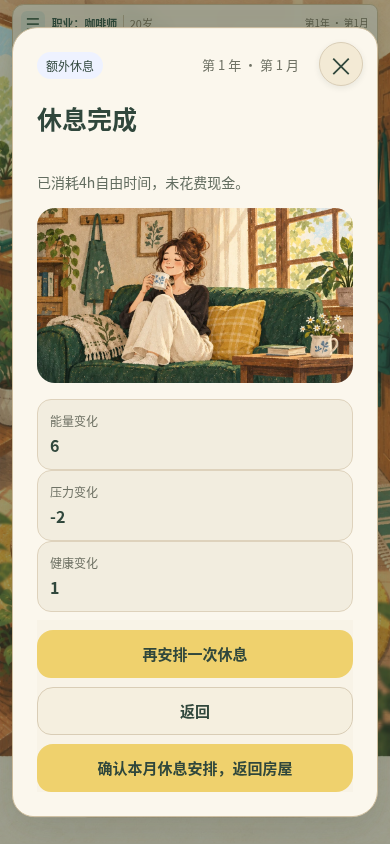
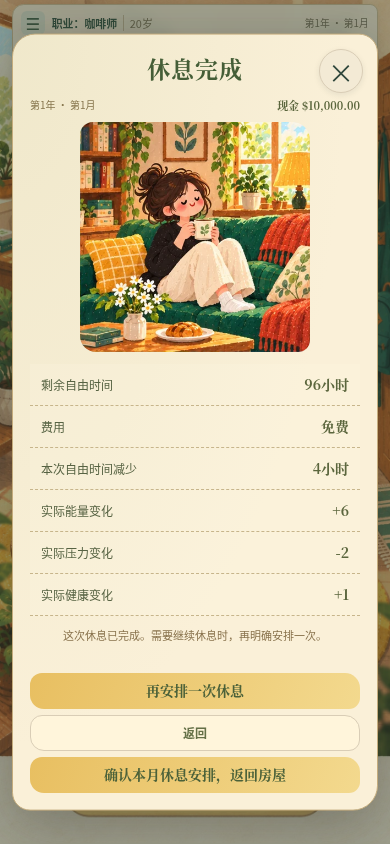
Unify household bill, housing and rest cards in approved illustrated style

diff --git a/sw.js b/sw.js
@@ -1,5 +1,5 @@
-const CACHE='wealth-life-v28.3-housing-check1';
-const ASSETS=["./social-records.js?v=28.3-social-per-person1","./social-time.js?v=28.3-social-price1","./social-pages-art.js?v=28.3-social-price1","./social-pages-art.css?v=28.3-social1","./assets/career/social-scenes.webp","./assets/career/life-funding.webp","./life-pages-art.js?v=28.3-life-pages1","./life-pages-art.css?v=28.3-life-pages1","./assets/career/life-activities.webp","./insurance-rules.js?v=28.3-insurance1","./insurance-hub.js?v=28.3-insurance1","./insurance-hub.css?v=28.3-insurance1","./life-hub-art.js?v=28.3-life-hub1","./life-hub-art.css?v=28.3-life-hub1","./assets/career/life-arrangements.webp","./recovery-activity-guards.js?v=28.3-recovery-guard1","./pet-social-contacts.js?v=28.3-pet-simple1","./assets/career/pet-gecko-cleaning.webp","./assets/career/pet-spider-cleaning.webp","./assets/career/pet-tortoise-cleaning.webp","./assets/career/pet-chameleon-cleaning.webp","./assets/career/pet-cat-professional.webp","./assets/career/pet-cat-cleaning-scenes.webp","./pet-art-map.js?v=28.3-pet-simple1","./pet-art-map.css?v=28.3-pet-map1","./pet-page-art.js?v=28.3-pet-map1","./assets/career/pet-policy.webp","./assets/career/pet-crocodile-cleaning.webp","./assets/career/pet-crocodile-adoption.webp","./assets/career/pet-cat-adoption.webp","./pet-funds-shortage.js?v=28.3-pet-funds1","./pet-funds-shortage.css?v=28.3-pet-funds1","./pet-adoption-success.js?v=28.3-pet-map1","./pet-adoption-success.css?v=28.3-pet-success1","./assets/career/pet-adoption-success.webp","./pet-owned-hub.js?v=28.3-pet-map1","./pet-owned-hub.css?v=28.3-pet-owned1","./assets/career/pet-owned-sheet.webp","./assets/career/pet-cleaning-scenes.webp","./pet-daily-care.js?v=28.3-pet-simple1","./pet-daily-care.css?v=28.3-pet-clean-art1","./pet-adoption-art.js?v=28.3-pet-map1","./pet-adoption-art.css?v=28.3-pet-form1","./assets/career/pet-corgi-adoption.webp","./pet-selection-art.js?v=28.3-pet-entry1","./pet-selection-art.css?v=28.3-pet-center1","./assets/career/pet-selection.webp","./pet-hub-art.js?v=28.3-pet-care-label1","./pet-hub-art.css?v=28.3-pet-hub1","./assets/career/pet-hub.webp","./assets/career/home-mobile.webp","./room-arrangements.js?v=28.3-pet-map1","./map-card-data.js?v=28.3-pet-social-limit1", "./map-card-rules.js?v=28.3-mapcards1", "./map-card-system.js?v=28.3-pet-simple1", "./map-card.css?v=28.3-mapcards1", "./assets/career/map-pet-unwell.webp", "./assets/career/map-pet-injury.webp", "./assets/career/map-pet-companion.webp", "./assets/career/map-pet-social.webp", "./assets/career/map-pet-mishap.webp", "./assets/career/map-investment-studio.webp", "./assets/career/map-investment-bun-shop.webp", "./assets/career/map-investment-laundry.webp"] .concat(["./cafe-rules.js?v=28.3-manager1","./cafe-system.js?v=28.3-manager1","./career-entry.js?v=28.3-mobile-room1","./career-entry.css?v=28.3-entry2","./assets/career/shift-promotion-pending.webp","./assets/career/shift-promotion-preview.webp","./assets/career/coffee-course.webp","./pet-adoption.js?v=28.3-pet-success1","./candidate-art.js?v=28.3-candidate1","./assets/career/barista-portrait.webp","./assets/career/pet-time-shortage.webp","./assets/career/pet-funds-shortage.webp","./assets/career/pet-crocodile-care.webp","./assets/career/bank-application.webp","./assets/career/bank-payment.webp","./housing-art.js?v=28.3-housing-check1","./assets/career/housing-select.webp","./assets/career/housing-reserve.webp","./assets/career/living-cost.webp","./return-art.js?v=28.3-return1","./assets/career/insurance.webp","./assets/career/return-energy.webp","./assets/career/return-stress.webp","./assets/career/payday.webp","./health-art.js?v=28.3-health1","./assets/career/rest-arrange.webp","./assets/career/rest-complete.webp","./assets/career/hospital-recovery.webp","./assets/career/month-recovery.webp","./education-art.js?v=28.3-education1","./assets/career/degrees.webp","./assets/career/associate-preview.webp","./learning-art.js?v=28.3-learning1","./assets/career/learning.webp","./assets/career/management-course.webp","./assets/career/service-course.webp","./hobby-art.js?v=28.3-room2","./assets/career/hobbies.webp","./home-scene.js?v=28.3-room-unified1","./home-scene.css?v=28.3-room-unified1","./assets/career/home.webp","./release-info.js?v=28.3-internal1","./financial-crisis.js?v=28.3-internal1","./four-state.js?v=28.3-internal1","./rest-state.js?v=28.3-rest-check1","./coffee-salary.js?v=28.3-internal1","./housing-lease.js?v=28.3-housing-check1","./pet-care.js?v=28.3-pet-map1","./necessary-bills.js?v=28.3-internal1","./recovery-ui.js?v=28.3-internal1","./medical-insurance.js?v=28.3-internal1","./recovery-rules.js?v=28.3-internal1","./time-ledger.js?v=28.3-internal1","./time-flow.js?v=28.3-home-end1","./assets/career/town.webp","./coffee-career.js?v=28.3-mapcards1", "./assets/career/barista-staff.webp", "./assets/career/barista-busy.webp", "./assets/career/barista-cut.webp", "./assets/career/barista-tip.webp", "./assets/career/barista-departure.webp", "./assets/career/shift-training.webp", "./assets/career/shift-schedule.webp", "./assets/career/shift-schedule-success.webp", "./assets/career/shift-schedule-failure.webp", "./assets/career/shift-complaint.webp", "./assets/career/shift-complaint-success.webp", "./assets/career/shift-complaint-failure.webp", "./assets/career/shift-acting.webp", "./assets/career/shift-acting-success.webp", "./assets/career/shift-acting-failure.webp", "./assets/career/shift-praise.webp", "./assets/career/intro.webp"] .concat(["./shift-lead.js?v=28.3-internal1","./shift-lead.css?v=28.3-internal1","./paper.css?v=28.3-internal1",'./coffee.js?v=28.3-internal1','./town.js?v=28.3-internal1','./','./index.html','./core.js','./flow.js?v=28.3-internal1','./journey.js?v=28.3-internal1','./batch.js?v=28.3-mapcards1','./revision.js?v=28.3-social-price1','./annual.js?v=28.3-internal1','./core.js?v=28.3-mapcards1','./presentation.js?v=28.3-candidate1','./presentation.css?v=28.3-internal1','./city.svg','./manifest.webmanifest','./icons/icon-192.png','./icons/icon-512.png']));
+const CACHE='wealth-life-v28.3-household-paper1';
+const ASSETS=["./household-paper.js?v=28.3-household-paper1","./household-paper.css?v=28.3-household-paper1","./assets/career/household-scenes.webp","./social-records.js?v=28.3-social-per-person1","./social-time.js?v=28.3-social-price1","./social-pages-art.js?v=28.3-social-price1","./social-pages-art.css?v=28.3-social1","./assets/career/social-scenes.webp","./assets/career/life-funding.webp","./life-pages-art.js?v=28.3-life-pages1","./life-pages-art.css?v=28.3-life-pages1","./assets/career/life-activities.webp","./insurance-rules.js?v=28.3-insurance1","./insurance-hub.js?v=28.3-insurance1","./insurance-hub.css?v=28.3-insurance1","./life-hub-art.js?v=28.3-life-hub1","./life-hub-art.css?v=28.3-life-hub1","./assets/career/life-arrangements.webp","./recovery-activity-guards.js?v=28.3-recovery-guard1","./pet-social-contacts.js?v=28.3-pet-simple1","./assets/career/pet-gecko-cleaning.webp","./assets/career/pet-spider-cleaning.webp","./assets/career/pet-tortoise-cleaning.webp","./assets/career/pet-chameleon-cleaning.webp","./assets/career/pet-cat-professional.webp","./assets/career/pet-cat-cleaning-scenes.webp","./pet-art-map.js?v=28.3-pet-simple1","./pet-art-map.css?v=28.3-pet-map1","./pet-page-art.js?v=28.3-pet-map1","./assets/career/pet-policy.webp","./assets/career/pet-crocodile-cleaning.webp","./assets/career/pet-crocodile-adoption.webp","./assets/career/pet-cat-adoption.webp","./pet-funds-shortage.js?v=28.3-pet-funds1","./pet-funds-shortage.css?v=28.3-pet-funds1","./pet-adoption-success.js?v=28.3-pet-map1","./pet-adoption-success.css?v=28.3-pet-success1","./assets/career/pet-adoption-success.webp","./pet-owned-hub.js?v=28.3-pet-map1","./pet-owned-hub.css?v=28.3-pet-owned1","./assets/career/pet-owned-sheet.webp","./assets/career/pet-cleaning-scenes.webp","./pet-daily-care.js?v=28.3-pet-simple1","./pet-daily-care.css?v=28.3-pet-clean-art1","./pet-adoption-art.js?v=28.3-pet-map1","./pet-adoption-art.css?v=28.3-pet-form1","./assets/career/pet-corgi-adoption.webp","./pet-selection-art.js?v=28.3-pet-entry1","./pet-selection-art.css?v=28.3-pet-center1","./assets/career/pet-selection.webp","./pet-hub-art.js?v=28.3-pet-care-label1","./pet-hub-art.css?v=28.3-pet-hub1","./assets/career/pet-hub.webp","./assets/career/home-mobile.webp","./room-arrangements.js?v=28.3-pet-map1","./map-card-data.js?v=28.3-pet-social-limit1", "./map-card-rules.js?v=28.3-mapcards1", "./map-card-system.js?v=28.3-pet-simple1", "./map-card.css?v=28.3-mapcards1", "./assets/career/map-pet-unwell.webp", "./assets/career/map-pet-injury.webp", "./assets/career/map-pet-companion.webp", "./assets/career/map-pet-social.webp", "./assets/career/map-pet-mishap.webp", "./assets/career/map-investment-studio.webp", "./assets/career/map-investment-bun-shop.webp", "./assets/career/map-investment-laundry.webp"] .concat(["./cafe-rules.js?v=28.3-manager1","./cafe-system.js?v=28.3-manager1","./career-entry.js?v=28.3-mobile-room1","./career-entry.css?v=28.3-entry2","./assets/career/shift-promotion-pending.webp","./assets/career/shift-promotion-preview.webp","./assets/career/coffee-course.webp","./pet-adoption.js?v=28.3-pet-success1","./candidate-art.js?v=28.3-candidate1","./assets/career/barista-portrait.webp","./assets/career/pet-time-shortage.webp","./assets/career/pet-funds-shortage.webp","./assets/career/pet-crocodile-care.webp","./assets/career/bank-application.webp","./assets/career/bank-payment.webp","./housing-art.js?v=28.3-housing-check1","./assets/career/housing-select.webp","./assets/career/housing-reserve.webp","./assets/career/living-cost.webp","./return-art.js?v=28.3-return1","./assets/career/insurance.webp","./assets/career/return-energy.webp","./assets/career/return-stress.webp","./assets/career/payday.webp","./health-art.js?v=28.3-health1","./assets/career/rest-arrange.webp","./assets/career/rest-complete.webp","./assets/career/hospital-recovery.webp","./assets/career/month-recovery.webp","./education-art.js?v=28.3-education1","./assets/career/degrees.webp","./assets/career/associate-preview.webp","./learning-art.js?v=28.3-learning1","./assets/career/learning.webp","./assets/career/management-course.webp","./assets/career/service-course.webp","./hobby-art.js?v=28.3-room2","./assets/career/hobbies.webp","./home-scene.js?v=28.3-room-unified1","./home-scene.css?v=28.3-room-unified1","./assets/career/home.webp","./release-info.js?v=28.3-internal1","./financial-crisis.js?v=28.3-internal1","./four-state.js?v=28.3-internal1","./rest-state.js?v=28.3-rest-check1","./coffee-salary.js?v=28.3-internal1","./housing-lease.js?v=28.3-housing-check1","./pet-care.js?v=28.3-pet-map1","./necessary-bills.js?v=28.3-internal1","./recovery-ui.js?v=28.3-internal1","./medical-insurance.js?v=28.3-internal1","./recovery-rules.js?v=28.3-internal1","./time-ledger.js?v=28.3-internal1","./time-flow.js?v=28.3-home-end1","./assets/career/town.webp","./coffee-career.js?v=28.3-mapcards1", "./assets/career/barista-staff.webp", "./assets/career/barista-busy.webp", "./assets/career/barista-cut.webp", "./assets/career/barista-tip.webp", "./assets/career/barista-departure.webp", "./assets/career/shift-training.webp", "./assets/career/shift-schedule.webp", "./assets/career/shift-schedule-success.webp", "./assets/career/shift-schedule-failure.webp", "./assets/career/shift-complaint.webp", "./assets/career/shift-complaint-success.webp", "./assets/career/shift-complaint-failure.webp", "./assets/career/shift-acting.webp", "./assets/career/shift-acting-success.webp", "./assets/career/shift-acting-failure.webp", "./assets/career/shift-praise.webp", "./assets/career/intro.webp"] .concat(["./shift-lead.js?v=28.3-internal1","./shift-lead.css?v=28.3-internal1","./paper.css?v=28.3-internal1",'./coffee.js?v=28.3-internal1','./town.js?v=28.3-internal1','./','./index.html','./core.js','./flow.js?v=28.3-internal1','./journey.js?v=28.3-internal1','./batch.js?v=28.3-mapcards1','./revision.js?v=28.3-social-price1','./annual.js?v=28.3-internal1','./core.js?v=28.3-mapcards1','./presentation.js?v=28.3-candidate1','./presentation.css?v=28.3-internal1','./city.svg','./manifest.webmanifest','./icons/icon-192.png','./icons/icon-512.png']));
 self.addEventListener('install',e=>{self.skipWaiting();e.waitUntil(caches.open(CACHE).then(c=>c.addAll(ASSETS)))});
 self.addEventListener('activate',e=>e.waitUntil(Promise.all([caches.keys().then(keys=>Promise.all(keys.filter(k=>k.startsWith('wealth-life-')&&k!==CACHE).map(k=>caches.delete(k)))),self.clients.claim()])));
 // Register the cache lifetime synchronously while the fetch event is active.

diff --git a/household-paper.js b/household-paper.js
@@ -1,0 +1,63 @@
+// Hand-painted household cards over the existing previews and transaction buttons.
+(function(){
+ const titles={family:'与家人同住的温暖卧室',shared:'合租公寓的公共客厅',studio:'卧室与厨房同处一个空间的Studio',rent1:'有独立卧室的一居室'};
+ const cells={family:0,shared:1,studio:2,rent1:3};
+ function art(i){const d=document.createElement('div');d.className='household-scene';d.style.setProperty('--house-x',(i%3*50)+'%');d.style.setProperty('--house-y',(Math.floor(i/3)*100)+'%');d.setAttribute('role','img');d.setAttribute('aria-label',Object.keys(cells).find(k=>cells[k]===i)?titles[Object.keys(cells).find(k=>cells[k]===i)]:i===4?'食材、面包和日常生活用品':'钥匙、押金与住房合同');return d;}
+ function note(s){const p=document.createElement('p');p.className='life-paper-note';p.textContent=s;return p;}
+ function row(k,v){const d=document.createElement('div');d.className='life-paper-row';const a=document.createElement('span'),b=document.createElement('strong');a.textContent=k;b.textContent=v;d.append(a,b);return d;}
+ function board(title){
+  if($('eventTitle').textContent!==title)return null;
+  const b=document.createElement('div');b.className='life-paper household-board';b.append(row('第'+(Math.floor(state.month/12)+1)+'年 · 第'+(state.month%12+1)+'月','现金 '+priceText(state.cash)));
+  $('eventTitle').closest('.event').classList.add('life-pages-painted','household-painted');$('eventData').replaceChildren(b);$('eventData').style.display='block';return b;
+ }
+ function actions(){for(const b of $('actions').querySelectorAll('button'))b.dataset.lifePaperAction=b.textContent.startsWith('确认本月')?'review':b.classList.contains('primary')||b.matches('[data-v26="living"]')?'confirm':'back';}
+ const housingBefore=openHousing;
+ openHousing=function(...args){
+  const result=housingBefore(...args);if($('eventTitle').textContent!=='选择住房')return result;
+  const options=[...$('eventData').querySelectorAll('[data-housing-preview]')],handover=$('eventData').querySelector('[data-lease-handover]'),cancel=$('eventData').querySelector('[data-lease-cancel]'),b=board('选择住房');if(!b)return result;
+  b.append(note('选一处适合自己的住处。先看详情，再确认付款。'));
+  if(state.pendingHousingMove){b.append(note('已预约：'+state.pendingHousingMove.name+'。'+(housingHandoverDue()?'本月办理交接后入住。':'下月入住，预约尚未扣款。')));if(cancel){cancel.classList.add('household-inline');b.append(cancel);}}
+  if(handover){b.append(art(5));handover.classList.add('household-inline');b.append(handover);}
+  const grid=document.createElement('div');grid.className='household-options';
+  for(const button of options){
+   const key=button.dataset.key,h=housingChoices().find(h=>h[3]===key);if(!h)continue;const q=housingQuote(h),i=cells[key];
+   button.className='household-option';button.setAttribute('aria-label',h[0]);button.replaceChildren();if(i!=null)button.append(art(i));
+   const name=document.createElement('strong'),price=document.createElement('b'),detail=document.createElement('small'),link=document.createElement('span');name.textContent=h[0];price.textContent=priceText(q.monthly)+'/月';
+   detail.textContent=q.scheduled?'预约下月入住，本次不扣款':q.current?'本月尚需房租 '+priceText(q.rent):'房租 '+priceText(q.rent)+' · 押金 '+priceText(q.deposit);
+   link.textContent=q.scheduled?'查看预约详情 ›':'查看付款详情 '+priceText(q.total)+' ›';button.append(name,price,detail,link);grid.append(button);
+  }b.append(grid,note('租房押金为一个月房租，退租交接返还。住房费用已包含水电与家庭网络。'));actions();return result;
+ };
+ $('housingBtn').onclick=openHousing;
+ const previewBefore=previewHousingChoice;
+ previewHousingChoice=function(key){
+  const result=previewBefore(key),h=housingChoices().find(h=>h[3]===key);if(!h)return result;const q=housingQuote(h),title=q.scheduled?'换房预约预览':'住房付款预览',b=board(title);if(!b)return result;
+  b.append(art(cells[key]??5),row('住处',h[0]),row('月住房费',priceText(q.monthly)),row('本次新押金',priceText(q.deposit)),row('本次支付',priceText(q.total)),row('支付后现金',priceText(state.cash-q.total)));
+  if(q.scheduled)b.append(row('入住时间','次月交接'),row('预计退回原押金',priceText(heldHousingDeposit())),row('预计交接净付款',priceText(q.deposit+q.monthly-heldHousingDeposit())),note('预约现在不扣款；下月交接时退旧押金，再支付新押金和房租。'));
+  else b.append(note('确认才付款。本月已付房租不会重复收取；押金属于可退资产。'));actions();return result;
+ };
+ const handoverBefore=openHousingHandover;
+ openHousingHandover=function(...args){
+  const result=handoverBefore(...args),b=board('退旧押金，入住新住处');if(!b)return result;const q=housingHandoverQuote();if(!q)return result;
+  b.append(art(5),row('新住处',q.name),row('退回旧押金',priceText(q.refund)),row('新押金',priceText(q.deposit)),row('本月房租',priceText(q.monthly)),row('交接后现金',priceText(state.cash-q.net)),row('尚缺',priceText(q.shortfall)),note('确认时统一结算。资金不足不会部分扣款，也不会重复收旧房本月房租。'));actions();return result;
+ };
+ const livingBefore=openTownLiving;
+ openTownLiving=function(...args){
+  const result=livingBefore(...args);if($('eventTitle').textContent!=='本月必要生活成本')return result;
+  const pay=$('eventData').querySelector('[data-v26="living"]'),fund=$('eventData').querySelector('[data-town="livingFund"]'),b=board('本月必要生活成本');if(!b)return result;
+  const due=roundCash(Math.max(0,livingTotal()-(paymentReceipt().living||0)));
+  b.append(art(4));const amount=document.createElement('div');amount.className='household-total';const label=document.createElement('span'),value=document.createElement('strong');label.textContent=due?'本次尚需支付':'✓ 本月生活费已付清';value.textContent=priceText(due);amount.append(label,value);b.append(amount);
+  b.append(row('基础生活',priceText(livingBaseAmount(state))),row('宠物日常养护',priceText(petMonthly())),row('车辆燃油及维护',priceText(state.carRunningCost||0)),row('本月生活费已付',priceText(paymentReceipt().living||0)),note('先核对，再确认支付。已付费用保留到月末，发薪结算不会重复扣除。'),note('住房、保险和贷款分别在对应入口处理。'));
+  if(pay)$('actions').prepend(pay);if(fund)$('actions').insertBefore(fund,pay?.nextSibling||$('actions').firstChild);actions();return result;
+ };
+ function restBoard(title,done=false){
+  const b=board(title);if(!b)return;const missing=done?[]:restMissing();
+  const scene=document.createElement('div');scene.className='household-rest-scene';scene.setAttribute('role','img');scene.setAttribute('aria-label','房屋里的圆脸女孩在绿沙发上安静休息');b.append(scene,row('剩余自由时间',currentCareerTime().free+'小时'),row('费用','免费'));
+  if(done){const r=monthlyRest().entries.at(-1);if(r)b.append(row('本次自由时间减少',r.hours+'小时'),row('实际能量变化',signed(r.energy)),row('实际压力变化',signed(r.stress)),row('实际健康变化',signed(r.health)));b.append(note('这次休息已完成。需要继续休息时，再明确安排一次。'));}
+  else{b.append(row('自由时间减少','4小时'),row('能量','增加6点'),row('压力','减少2点'),row('健康','增加1点'),note('按状态上下限结算，可重复安排；确认后才执行。'));if(missing.length)b.append(note('暂不能安排：'+missing.join('；')));}
+  actions();
+ }
+ function signed(n){return(n>0?'+':'')+n;}
+ const restBefore=openExtraRest;openExtraRest=function(...args){const result=restBefore(...args);restBoard('额外休息4小时');return result;};
+ const restConfirmBefore=confirmExtraRest;confirmExtraRest=function(...args){const result=restConfirmBefore(...args);if(result===true)restBoard('休息完成',true);return result;};
+ const before=showEvent;showEvent=function(...args){document.querySelector('.household-painted')?.classList.remove('household-painted');return before(...args)};
+})();

diff --git a/household-paper.css b/household-paper.css
@@ -1,0 +1,16 @@
+.household-painted{background-image:radial-gradient(ellipse at top left,#e4dfb678,transparent 65%)!important}
+.household-scene{width:100%;aspect-ratio:1;background-image:url('assets/career/household-scenes.webp');background-size:300% 200%;background-position:var(--house-x) var(--house-y);border-radius:12px 17px 10px 15px}
+.household-board>.household-scene{max-width:235px;margin:0 auto 12px}
+.household-options{display:grid;grid-template-columns:repeat(2,minmax(0,1fr));gap:11px 9px;margin:12px 0}
+#game button.household-option{display:block!important;min-width:0;padding:6px 6px 10px!important;min-height:0!important;background:#fff8e4!important;border:1px solid #c7b181;border-radius:13px 18px 12px 16px;box-shadow:0 3px 7px #90743822,inset 0 0 0 3px #fffdf233;white-space:normal;text-align:left;color:#4d613a}
+.household-option>.household-scene{border-radius:9px 13px 8px 12px}
+.household-option>strong{display:block;font-family:'Songti SC','STSong',serif;font-size:16px;line-height:1.65;color:#4b6038;margin:6px 4px 2px;overflow-wrap:anywhere}
+.household-option>b{display:block;font-family:Georgia,'Songti SC',serif;font-size:14px;color:#78602e;margin:0 4px 5px;line-height:1.6}
+.household-option>small{display:block;font-size:10px;line-height:1.8;margin:0 4px 6px;color:#8a7850}
+.household-option>span{display:block;font-size:10px;line-height:1.7;padding:6px 4px;background:#f0db9d6e;border-radius:8px 11px 8px 9px;color:#746330}
+.household-option:disabled{opacity:.5}
+.household-total{margin:-4px 4px 12px;padding:12px;text-align:center;border:1px solid #cbb583;background:#f3e5b8;border-radius:13px 17px 11px 15px;box-shadow:0 3px 7px #ac915522}
+.household-total span{display:block;font-family:'Songti SC',serif;font-size:14px;color:#697146}.household-total strong{display:block;font-family:Georgia,'Songti SC',serif;font-size:30px;line-height:1.5;color:#4b6038}
+.household-inline{display:block;margin:10px auto!important;min-height:38px!important;background:#f3e7c3!important;border:1px solid #c7b285;border-radius:12px 17px 11px 14px;color:#607046!important;font-family:'Songti SC',serif}
+.household-rest-scene{width:100%;max-width:230px;aspect-ratio:1;margin:0 auto 12px;background:url('assets/career/life-activities.webp') 50% 0/300% 300%;border-radius:13px 18px 12px 16px}
+@media(max-width:350px){.household-option>strong{font-size:14px}.household-option>b{font-size:12px}.household-option>small,.household-option>span{font-size:9px}.household-options{gap:9px 7px}}

diff --git a/index.html b/index.html
@@ -619,4 +619,6 @@ window.v245OpenHousing=()=>document.getElementById('housingBtn').click();
 <link rel="stylesheet" href="social-pages-art.css?v=28.3-social1">
 <script src="social-time.js?v=28.3-social-price1"></script>
 <script src="social-pages-art.js?v=28.3-social-price1"></script>
+<link rel="stylesheet" href="household-paper.css?v=28.3-household-paper1">
+<script src="household-paper.js?v=28.3-household-paper1"></script>
 </body></html>

diff --git a/qa/browser-household-paper.py b/qa/browser-household-paper.py
@@ -1,0 +1,43 @@
+from http.server import ThreadingHTTPServer,SimpleHTTPRequestHandler
+from threading import Thread
+from pathlib import Path
+from playwright.sync_api import sync_playwright
+import json
+class Quiet(SimpleHTTPRequestHandler):
+ def log_message(self,*a):pass
+s=ThreadingHTTPServer(('127.0.0.1',0),Quiet);Thread(target=s.serve_forever,daemon=True).start()
+try:
+ with sync_playwright() as p:
+  browser=p.chromium.launch(executable_path='/usr/bin/chromium',args=['--no-sandbox']);ctx=browser.new_context(viewport={'width':390,'height':844},service_workers='block');page=ctx.new_page();errors=[];page.on('pageerror',lambda e:errors.append(str(e)))
+  page.goto(f'http://127.0.0.1:{s.server_port}',wait_until='networkidle');page.get_by_role('button',name='查看职业预览',exact=True).click();page.get_by_role('button',name='选择这个人生',exact=True).click();page.evaluate('window.paperFixture=structuredClone(state)')
+  def reset(extra=''):page.evaluate('(x)=>{clearModals();state=structuredClone(paperFixture);townHome();if(x)eval(x);roomOpenArrangement("life")}',extra)
+  def snap():return page.evaluate('JSON.stringify({cash:state.cash,month:state.month,health:state.health,energy:state.energy,stress:state.stress,housing:state.housing,lease:state.housingLease,ledger:state.financeLedger,payments:state.monthlyPayments,free:currentCareerTime().free,checks:state.roomArrangements})')
+  def shot(name):page.screenshot(path='progress/evidence/'+name+'-2026-10-26.png',full_page=True)
+  def layout():
+   for w,h in [(320,568),(390,844),(1280,900)]:
+    page.set_viewport_size({'width':w,'height':h});box=page.locator('.event-active').bounding_box();assert abs(box['y']+box['height']/2-h/2)<2,(w,h,box);assert page.locator('.event-active').evaluate('(e)=>e.scrollWidth<=e.clientWidth'),(w,h)
+   page.set_viewport_size({'width':390,'height':844})
+  reset();before=snap();page.get_by_role('button',name='住房',exact=True).click();assert snap()==before;assert page.locator('.household-option').count()==4;assert page.locator('.household-option .household-scene').count()==4
+  shot('housing-painted');layout()
+  for key in ['family','shared','studio','rent1']:
+   page.evaluate('openHousing()');before=snap();page.locator('#eventData [data-housing-preview][data-key="'+key+'"]').click();assert snap()==before;assert page.locator('.household-painted').count()==1
+   if key=='shared':shot('housing-payment-painted');layout()
+  # The original button and delegate, now in the footer, remain the sole payment path.
+  reset();before=snap();page.get_by_role('button',name='基本生活费',exact=True).click();assert snap()==before
+  assert page.locator('#actions [data-v26="living"]').is_visible();shot('living-cost-painted');layout()
+  box=page.locator('#actions [data-v26="living"]').bounding_box();assert box['y']>=0 and box['y']+box['height']<=844
+  page.locator('#actions [data-v26="living"]').click();assert page.evaluate('state.cash')==9200;assert page.evaluate('paymentReceipt().living')==800
+  page.evaluate('openTownLiving()');assert '已付清' in page.locator('.household-total').inner_text();shot('living-paid-painted');before=snap();page.locator('#actions [data-v26="living"]').click();assert snap()==before
+  reset('state.cash=100');page.get_by_role('button',name='基本生活费',exact=True).click();assert page.locator('#actions [data-v26="living"]').is_disabled();assert page.locator('#actions [data-town="livingFund"]').is_visible();shot('living-insufficient-painted')
+  # Rest uses the approved illustrated character and keeps its original action guard.
+  reset();page.evaluate('roomOpenArrangement("rest")');assert page.locator('.household-rest-scene').count()==1;shot('rest-painted');layout();page.get_by_role('button',name='确认休息4h',exact=True).click();assert page.evaluate('currentCareerTime().restHours')==4;assert page.locator('.household-rest-scene').count()==1;shot('rest-result-painted')
+  # Existing policies/pet pages keep their own styling when navigating away.
+  reset();page.get_by_role('button',name='保险',exact=True).click();assert page.locator('.household-painted').count()==0
+  reset('state.health=10');page.evaluate('openExtraRest()');assert page.locator('.household-painted').count()==0
+  assert not errors,errors;ctx.close()
+  ctx=browser.new_context(viewport={'width':390,'height':844});page=ctx.new_page();page.goto(f'http://127.0.0.1:{s.server_port}',wait_until='networkidle');page.evaluate('navigator.serviceWorker.ready');page.reload(wait_until='networkidle');page.wait_for_function('navigator.serviceWorker.controller!==null');assert page.evaluate('caches.keys()')==['wealth-life-v28.3-household-paper1']
+  ctx.set_offline(True);page.reload(wait_until='networkidle');page.get_by_role('button',name='查看职业预览',exact=True).click();page.get_by_role('button',name='选择这个人生',exact=True).click();page.evaluate('roomOpenArrangement("life");openHousing()');assert page.locator('.household-option').count()==4
+  assert page.evaluate('new Promise((resolve,reject)=>{const i=new Image;i.onload=()=>resolve(i.naturalWidth);i.onerror=reject;i.src="assets/career/household-scenes.webp"})')==1536
+  page.evaluate('openTownLiving()');page.locator('#actions [data-v26="living"]').click();assert page.evaluate('state.cash')==9200
+  ctx.close();browser.close();result={'passed':True,'checks':['four housing scenes and original preview buttons, browsing no mutation','payment/reservation scene styling; 320/390/desktop centered no overflow','original living button moved to visible footer, actual800 payment, paid reopen no duplicate','insufficient cash keeps disabled pay and original funding route','approved rest scene, original4h transaction and result','insurance and critical recovery screens not restyled by household module','real SW offline atlas and living payment'],'pageErrors':errors,'limits':['isolated Chromium, not real phone','housing/rest original branch regressions run separately']};Path('qa/browser-evidence/household-paper.json').write_text(json.dumps(result,ensure_ascii=False,indent=2)+'\n');print(json.dumps(result,ensure_ascii=False,indent=2))
+finally:s.shutdown();s.server_close()

diff --git a/qa/browser-rest-flow.py b/qa/browser-rest-flow.py
@@ -45,7 +45,7 @@ try:
   reset();page.get_by_role('button',name='确认本月休息安排，返回房屋',exact=True).click();assert page.evaluate('roomChecks().rest.confirmed') is True;assert page.evaluate('state.extraRest.entries.length')==0;assert page.evaluate('state.cash')==10000
   reset();confirm();page.evaluate('state.month+=1;roomOpenArrangement("rest")');assert page.evaluate('state.extraRest.entries.length')==0 and page.evaluate('currentCareerTime().restHours')==0
   assert not errors,errors;context.close()
-  context=browser.new_context();page=context.new_page();page.goto(f'http://127.0.0.1:{server.server_port}',wait_until='networkidle');page.evaluate('navigator.serviceWorker.ready');page.reload(wait_until='networkidle');page.wait_for_function('navigator.serviceWorker.controller!==null');assert page.evaluate('caches.keys()')==['wealth-life-v28.3-rest-check1']
+  context=browser.new_context();page=context.new_page();page.goto(f'http://127.0.0.1:{server.server_port}',wait_until='networkidle');page.evaluate('navigator.serviceWorker.ready');page.reload(wait_until='networkidle');page.wait_for_function('navigator.serviceWorker.controller!==null');assert page.evaluate('caches.keys()')==['wealth-life-v28.3-household-paper1']
   context.set_offline(True);page.reload(wait_until='networkidle');page.get_by_role('button',name='查看职业预览',exact=True).click();page.get_by_role('button',name='选择这个人生',exact=True).click();page.evaluate('roomOpenArrangement("rest")');confirm();assert page.evaluate('state.extraRest.entries.length')==1
   context.close();browser.close();result={'passed':True,'checks':['preview/back no effects; explicit acknowledgement without resting','4h free payment and actual capped energy/stress/health effects','repeat rest, duplicate callback, reload and next month','insufficient/exact time, resource changes after preview','actual pet professional-cleaning time reservation','stale save/month/detached confirmations blocked','low health and recovery route to treatment','320/390/desktop centered no overflow','real service worker offline rest confirmation'],'pageErrors':errors,'limits':['isolated Chromium, not real phone','not full multi-year randomized gameplay']};Path('qa/browser-evidence/rest-flow.json').write_text(json.dumps(result,ensure_ascii=False,indent=2)+'\n');print(json.dumps(result,ensure_ascii=False,indent=2))
 finally:server.shutdown();server.server_close()

diff --git a/progress/household-paper-2026-10-26.md b/progress/household-paper-2026-10-26.md
@@ -1,0 +1,31 @@
+# 住房、生活费及休息卡片手绘统一（2026-10-26）
+
+用户要求“把卡片都改成手绘风格，符合游戏风格”。本轮承接正在核对的住房、生活费和刚完成休息页面，统一这些尚未匹配的卡片及住房付款/预约/交接。既有生活入口、保险、必要安排、可选活动、宠物和关系的已确认绘本页面保留；没有重建游戏。新结果待用户视觉核对，不把风格沿用当作用户已经验收所有新页面。
+
+## 实际页面
+
+- [住房四选项](evidence/housing-painted-2026-10-26.png)：四种房型各自场景，保留实际月租、押金和查看详情入口。全卡可查看，矮屏滚动。
+- [住房付款](evidence/housing-payment-painted-2026-10-26.png)：对应房型画面与实时账单；预约/交接同套纸卡，原按钮和快照防护保留。
+- [基本生活费](evidence/living-cost-painted-2026-10-26.png)：食材插画、实际待付总额、基础/宠物/车辆分项、本月已付；原确认支付节点移至固定底部，不再藏在长卡片下面。
+- [生活费已付](evidence/living-paid-painted-2026-10-26.png)、[现金不足](evidence/living-insufficient-painted-2026-10-26.png)：按真实付款回执和原禁用/筹款条件显示。
+- [休息](evidence/rest-painted-2026-10-26.png)、[休息结果](evidence/rest-result-painted-2026-10-26.png)：复用用户确认life-activities中的原圆脸女孩沙发场景；原免费4h与实际状态变化保留。
+
+## 图片与排版
+
+新增assets/career/household-scenes.webp，1536×1024的3×2六场景图集：家人同住卧室、合租公共客厅、开放Studio、独立卧室1B、生活食材、钥匙合同账单。图像工具明确传入home-mobile和已确认生活图作为风格参考，使用厚实颗粒笔触、暖黄墨绿、圆润木家具和植物，不用写实肖像、不写死费用/文字、不画无关宠物。原生成PNG：/workspace/generated_images/exec-6d8b25d8-37c3-4c7b-b5c0-d6d62788b648.png。休息直接复用已确认图，不新增人物版本。
+
+新增household-paper.js/css，沿既有life纸卡样式，手账边框、衬线标题、账单虚线与暖色按钮。四种房型仍用原data-housing-preview按钮；生活费仍用原data-v26/living及data-town/livingFund节点，只移动到footer，保留事件委托、金额、禁用和防重。预览和交接仍走原owner/月/在屏/报价校验，休息原确认节点不替换。医疗重定向时不覆盖页面，离开时清除本模块样式。
+
+不改任何价格、押金、时长、状态、付款时机、次月续租/换房或已存档数据。住房/生活费用仍分别确认，不新增自动代扣。此前原图继续保留；旧截图存progress/evidence/household-before-painted/，此前住房和休息current截图已更新为新实际页面。
+
+生产资源75、PR新增57、新接入39；候选459条不改。缓存wealth-life-v28.3-household-paper1，HTML/SW新JS/CSS和图一致，归档仍不部署。
+
+## 验证
+
+44个Node测试全部通过（含资源哈希/精确预缓存URL）。三个实际Chromium脚本均通过：
+
+1. qa/browser-household-paper.py：四种房型对应场景和原按钮；浏览不消费；320/390/桌面居中无横溢；原生活费按钮在固定footer可见，实际支付800、余9200、已付重开不重扣；低现金付款禁用、原筹款入口可见；休息原4h执行及结果；保险/低健康页面不串样式；真实SW安装后断网可读图并支付生活费。证据qa/browser-evidence/household-paper.json。
+2. qa/browser-housing-flow.py：首次租金+押金、生活费保险不随住房支付、同月不重复租金、次月不自动扣且无新押金、免费预约/取消、次月押金净额交接、缺款不部分扣、旧付款跨档/月/离屏拒绝。证据housing-flow.json。
+3. qa/browser-rest-flow.py：免费4h、实际封顶变化、重复/再安排、读档/次月、时间不足/恰好够、原必要宠物照护1h预留、执行再查时间、旧回调防护、低健康/康复、明确不休息打勾、真实SW断网确认。证据rest-flow.json。
+
+均无页面异常。这是隔离浏览器，不是真机或多年全事件验收。仅本地保存，未上传/合并/部署。

diff --git a/CODEX_HANDOFF.md b/CODEX_HANDOFF.md
@@ -1,5 +1,7 @@
 # 财富人生 Wealth Life — Codex 接手说明
 
+最新卡片统一（2026-10-26）：用户要求卡片符合手绘游戏风。已把当前住房四选项/付款/预约/交接、基本生活费、休息及结果统一暖色绘本纸卡，先读 [卡片统一检查点](progress/household-paper-2026-10-26.md)。新增六场景图集，休息复用已确认圆脸沙发图；原按钮/委托/付款/押金/时间/防重与旧存档保留。生活费确认支付移到可见固定footer。旧图及旧截图保留。75图、缓存 `wealth-life-v28.3-household-paper1`；44个Node和household/housing/rest三个真实浏览器检查含离线通过，非真机。新页面待视觉核对，本地未上传。
+
 最新住房核对（2026-10-26）：用户询问确认扣款，已说明首次确认即付当月租金+新押金（家人无押金），次月手动确认租金非自动代扣，生活费保险独立。首次/次月/换房预约取消与净额交接/防重/不足款已过真实浏览器检查；复现修复旧付款确认跨存档问题，交接预览同步补身份/月份/在屏和报价防护。见 [住房检查点](progress/housing-flow-2026-10-26.md)。44个Node通过，非真机，缓存 `wealth-life-v28.3-housing-check1`，本地未上传。用户随后转看“生活→基本生活费”。
 
 最新休息验证（2026-10-26）：用户表示“确认都能跑通就行”，无需再逐条确认原数值。已验证原免费4h/能量+6压力−2健康+1及重复、时间不足、宠物预留、康复/低健康、读档/次月、显式不休息打勾、离线。复现并修复旧确认可跨存档执行的问题，新增owner/在屏按钮/标题校验，数值和旧档不改。见 [休息检查点](progress/rest-flow-2026-10-26.md)。44个Node及真实浏览器通过，非真机；缓存 `wealth-life-v28.3-rest-check1`，本地未上传。

diff --git a/NEXT_SESSION.md b/NEXT_SESSION.md
@@ -1,5 +1,7 @@
 # 新会话接手
 
+最新卡片统一（2026-10-26）：用户要求卡片符合手绘游戏风。已把当前住房四选项/付款/预约/交接、基本生活费、休息及结果统一暖色绘本纸卡，先读 [卡片统一检查点](progress/household-paper-2026-10-26.md)。新增六场景图集，休息复用已确认圆脸沙发图；原按钮/委托/付款/押金/时间/防重与旧存档保留。生活费确认支付移到可见固定footer。旧图及旧截图保留。75图、缓存 `wealth-life-v28.3-household-paper1`；44个Node和household/housing/rest三个真实浏览器检查含离线通过，非真机。新页面待视觉核对，本地未上传。
+
 最新住房核对（2026-10-26）：用户询问确认扣款，已说明首次确认即付当月租金+新押金（家人无押金），次月手动确认租金非自动代扣，生活费保险独立。首次/次月/换房预约取消与净额交接/防重/不足款已过真实浏览器检查；复现修复旧付款确认跨存档问题，交接预览同步补身份/月份/在屏和报价防护。见 [住房检查点](progress/housing-flow-2026-10-26.md)。44个Node通过，非真机，缓存 `wealth-life-v28.3-housing-check1`，本地未上传。用户随后转看“生活→基本生活费”。
 
 最新休息验证（2026-10-26）：用户表示“确认都能跑通就行”，无需再逐条确认原数值。已验证原免费4h/能量+6压力−2健康+1及重复、时间不足、宠物预留、康复/低健康、读档/次月、显式不休息打勾、离线。复现并修复旧确认可跨存档执行的问题，新增owner/在屏按钮/标题校验，数值和旧档不改。见 [休息检查点](progress/rest-flow-2026-10-26.md)。44个Node及真实浏览器通过，非真机；缓存 `wealth-life-v28.3-rest-check1`，本地未上传。
